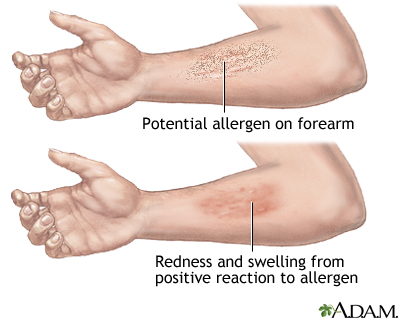
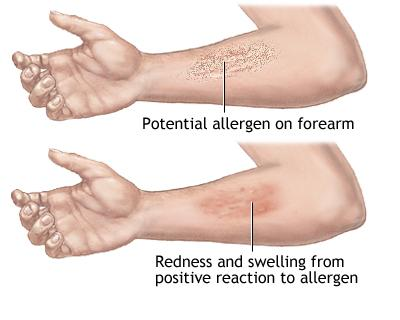
Rounded some image edges

Changed region(s): [[0.78, 0.9375, 0.99, 1.0], [0.54, 0.1875, 0.57, 0.2188]]

diff --git a/page-content/allergic_reactions.html b/page-content/allergic_reactions.html
@@ -43,7 +43,7 @@
                     </p>
                 </div>
                 <div class="col-xs-3" id="picture">
-                    <img src="../media/images/Allergic_Reaction.jpg" alt="Allergic Reaction"/>
+                    <img class="img-rounded" src="../media/images/Allergic_Reaction.jpg" alt="Allergic Reaction"/>
                 </div>
             </div>
         </div>

diff --git a/page-content/puncture_wounds-immediate.html b/page-content/puncture_wounds-immediate.html
@@ -1,5 +1,5 @@
 <div id="puncture_wounds-immediate">
-    <h2 class="innerheader">Puncture Wounds<img src="../media/images/immediate_puncture.png"/></h2>
+    <h2 class="innerheader">Puncture Wounds <img class="img-rounded" src="../media/images/immediate_puncture.png"/></h2>
     <div class="row">
         <div class="col-xs-4">
             <h3>When To Call 911</h3>

diff --git a/page-content/puncture_wounds.html b/page-content/puncture_wounds.html
@@ -33,7 +33,7 @@
                     </p>
                 </div>
                 <div class="col-xs-3" id="picture">
-                    <img src="../media/images/Puncture.jpg" alt="Puncture Wound"/>
+                    <img class="img-rounded" src="../media/images/Puncture.jpg" alt="Puncture Wound"/>
                 </div>
             </div>
         </div>

diff --git a/page-content/burns-immediate.html b/page-content/burns-immediate.html
@@ -1,5 +1,5 @@
 <div id="burns-immediate">
-    <h2 class="innerheader">Burns  <img src="../media/images/immediate_burns.jpg"/></h2>
+    <h2 class="innerheader">Burns  <img class="img-rounded" src="../media/images/immediate_burns.jpg"/></h2>
     <div class="row">
         <div class="col-xs-4">
             <h3>When To Call 911</h3>

diff --git a/page-content/lacerations-immediate.html b/page-content/lacerations-immediate.html
@@ -1,5 +1,5 @@
 <div id="laceration-immediate">
-    <h2 class="innerheader">Lacerations<img src="../media/images/immediate_laceration.jpg"/></h2>
+    <h2 class="innerheader">Lacerations <img class="img-rounded" src="../media/images/immediate_laceration.jpg"/></h2>
     <div class="row">
         
             <div class="col-xs-4">

diff --git a/page-content/allergic_reactions-immediate.html b/page-content/allergic_reactions-immediate.html
@@ -1,5 +1,5 @@
 <div id="allergic_reactions-immediate">
-    <h2 class="innerheader">Allergic Reactions <img src="../media/images/allergic_immediate.jpg"/></h2>
+    <h2 class="innerheader">Allergic Reactions <img class="img-rounded" src="../media/images/allergic_immediate.jpg"/></h2>
     <div class="row">
 
 
